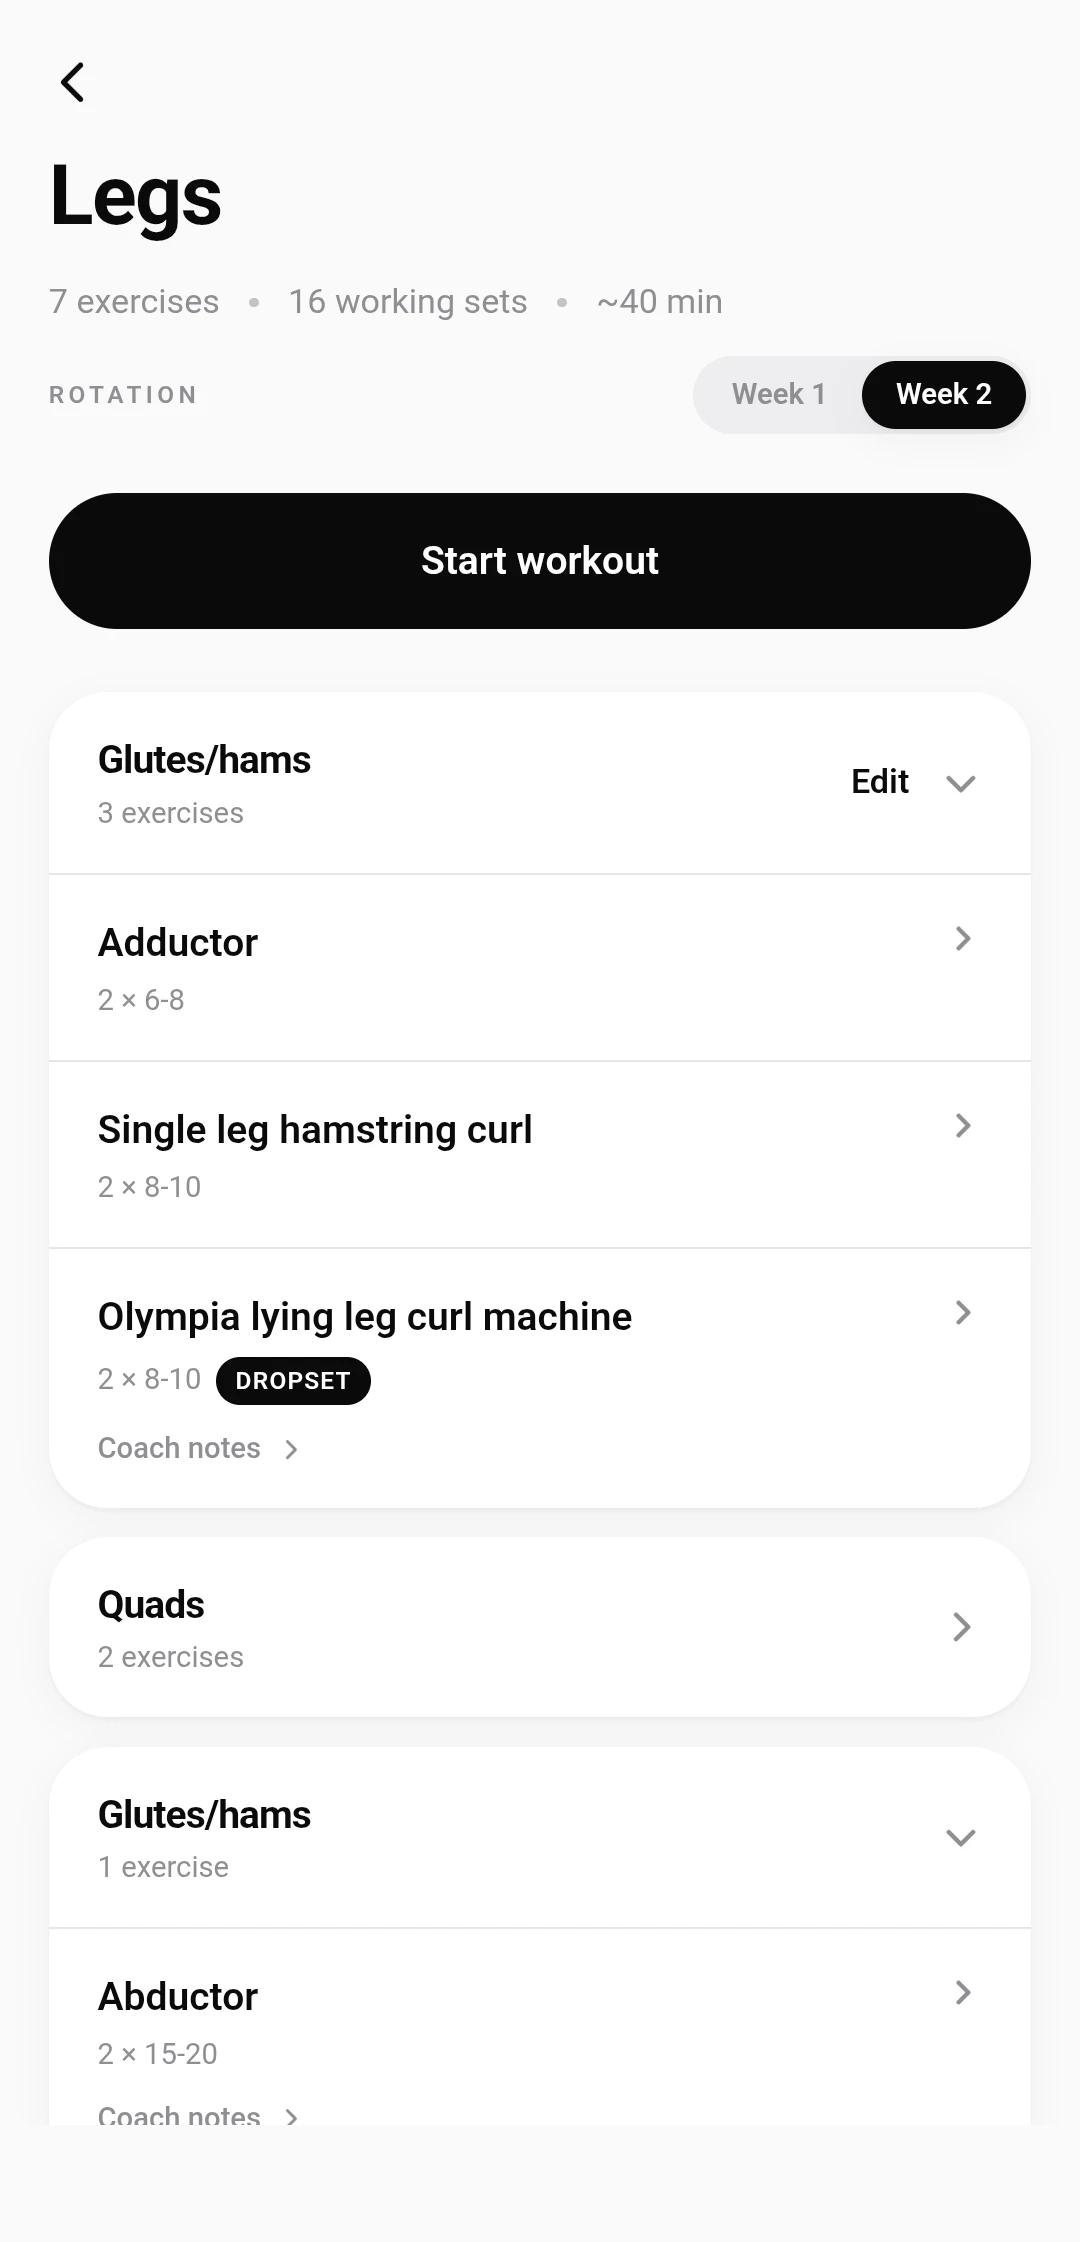
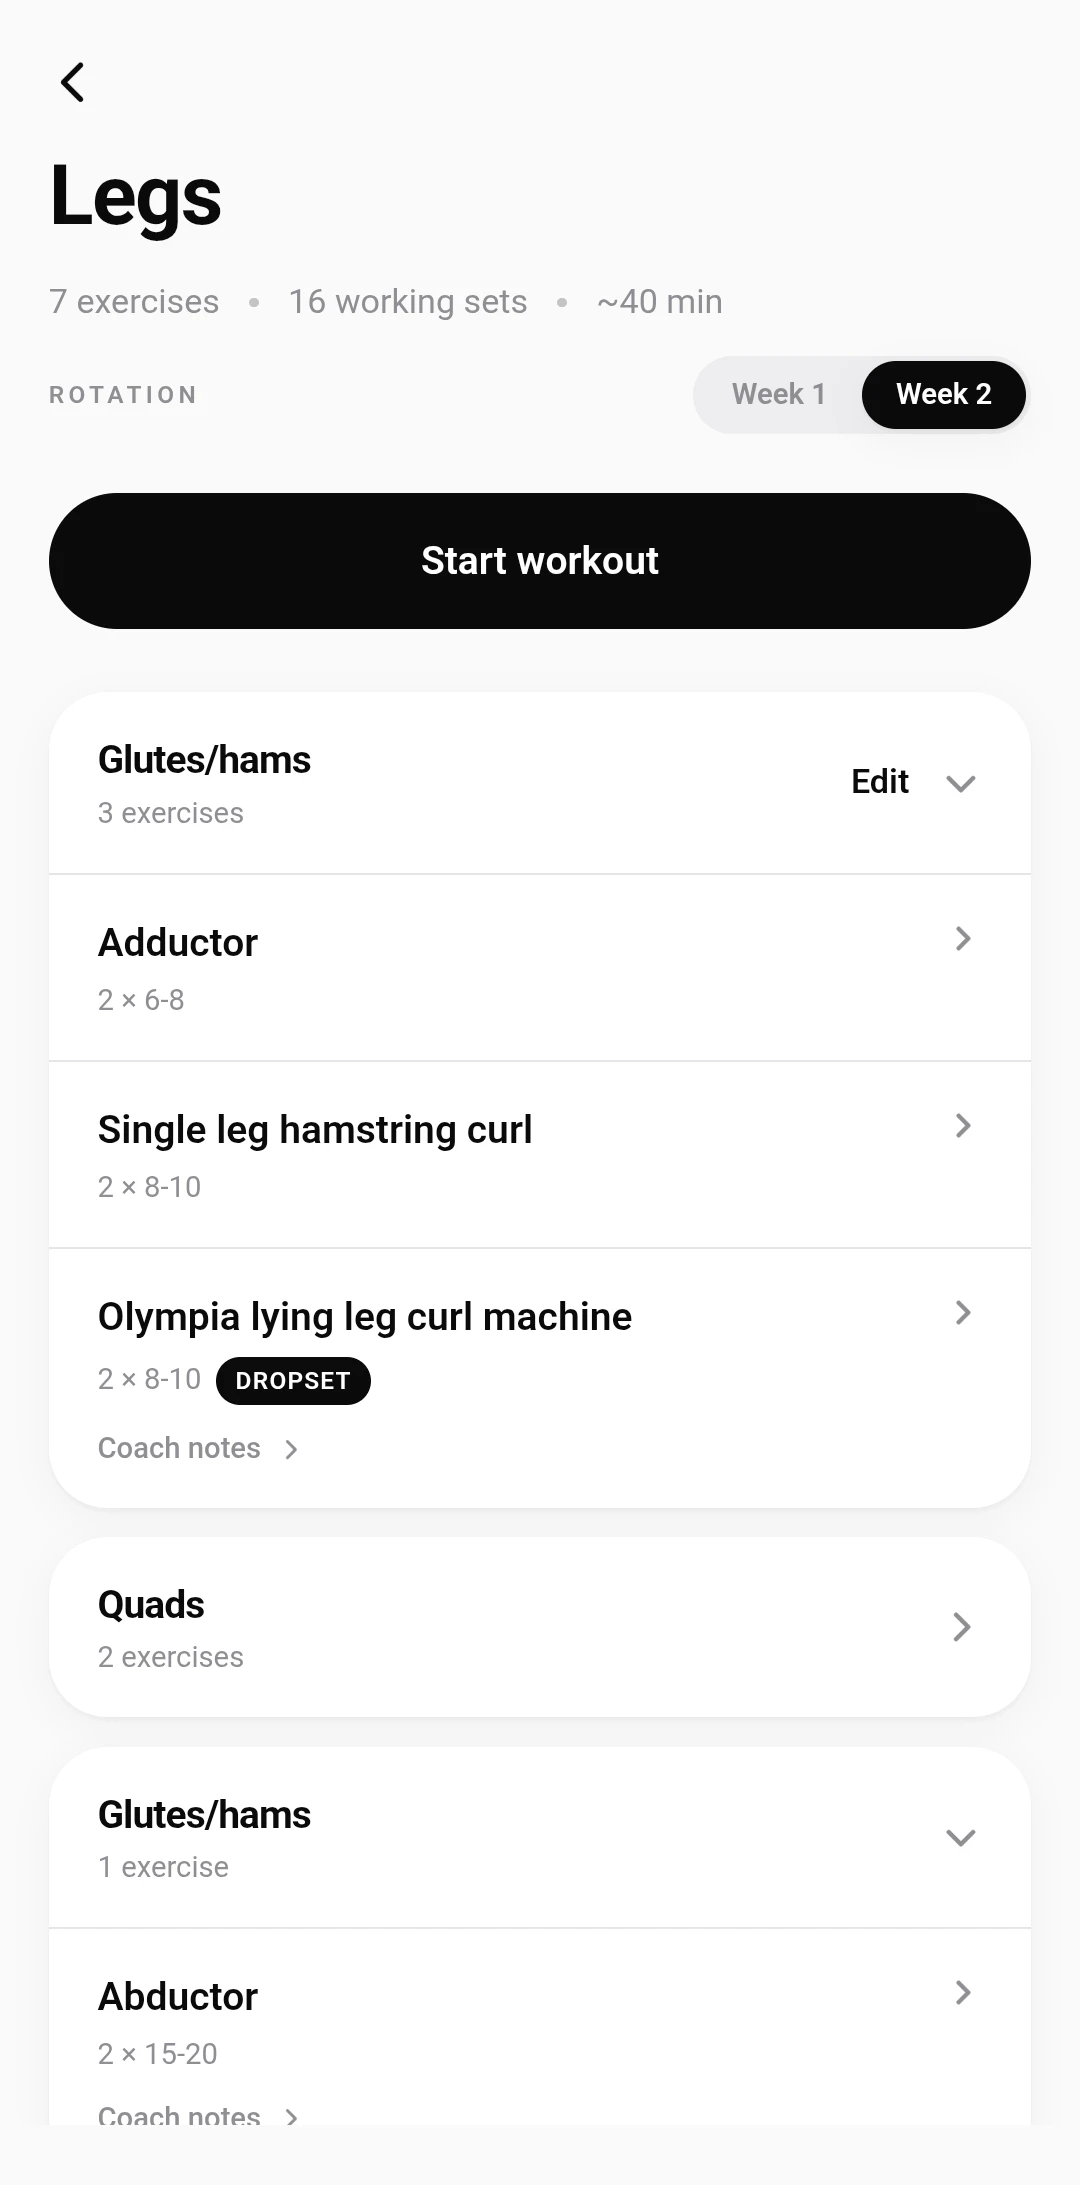
Run the hero through the whole app, and balance the screen in its frame
The hero now follows the app the way you use it: home, the progress tab
and its charts, into a day, the calculator building a load plate by
plate, the set going in, the rest timer, then back to home as the loop
wraps. Frames carry their own dwell through data-ms, so the plates pile
on in a second each while the screens worth reading hold for three.

The frame fit is a compromise, and worth stating. The Android captures
are 1080x2125 of app once both system bars are gone; the phone frame is
iPhone-shaped at 1080x2337. That 212px has to come from somewhere, and
the two ends of the trade are both visible: pad it all and the screen
floats with a gap, crop it all off the sides and the app's own margins
disappear — on some screens content sits 0-26px from the edge, so a full
crop cuts into titles. 60px of padding puts the split at roughly a third
of a phone pixel of side crop for an 11px strip under the tab bar, which
leaves the margins intact and reads as the app's own bottom padding
rather than a gap.

The four iPhone captures re-encode as WebP unchanged: 879KB of PNG
becomes 312KB, and the hero's initial shot payload drops from 303KB to
96KB. Nothing references a PNG any more, so they are gone.

Claude-Session: https://claude.ai/code/session_016dQZsHJBfV1LHgyEm3bUhk

diff --git a/index.html b/index.html
@@ -85,19 +85,24 @@
 
       <div class="hero__art" aria-hidden="true">
         <figure class="phone phone--back">
-          <img src="assets/shots/reps-days.png" alt="" width="1170" height="2532" loading="eager" decoding="async" />
+          <img src="assets/shots/reps-days.webp" alt="" width="1170" height="2532" loading="eager" decoding="async" />
           <span class="phone__sweep" aria-hidden="true"></span>
         </figure>
-        <!-- The front phone walks the app: home, the day you tapped into, a set
-             going in, the rest timer, then what it adds up to. Only the first
-             frame is fetched at priority — it is the LCP image; the rest are in
-             the viewport so they still load, just behind it. -->
+        <!-- The front phone walks the app the way you would use it: home, the
+             progress tab and its charts, into a day, the calculator building a
+             load plate by plate, the set going in, the rest timer — then back
+             to home as the loop wraps. Each frame carries its own dwell, so
+             the plates pile on quickly and the screens worth reading hold.
+             Only the first is fetched at priority: it is the LCP image. -->
         <figure class="phone phone--front phone--stack">
-          <img class="is-on" src="assets/shots/reps-home.webp" alt="" width="1080" height="2242" loading="eager" decoding="async" fetchpriority="high" />
-          <img src="assets/shots/reps-workout.webp" alt="" width="1080" height="2242" loading="lazy" decoding="async" fetchpriority="low" />
-          <img src="assets/shots/reps-log.webp" alt="" width="1080" height="2242" loading="lazy" decoding="async" fetchpriority="low" />
-          <img src="assets/shots/reps-rest.webp" alt="" width="1080" height="2242" loading="lazy" decoding="async" fetchpriority="low" />
-          <img src="assets/shots/reps-progress.webp" alt="" width="1080" height="2242" loading="lazy" decoding="async" fetchpriority="low" />
+          <img class="is-on" data-ms="2800" src="assets/shots/reps-home.webp" alt="" width="1080" height="2185" loading="eager" decoding="async" fetchpriority="high" />
+          <img data-ms="3000" src="assets/shots/reps-progress.webp" alt="" width="1080" height="2185" loading="lazy" decoding="async" fetchpriority="low" />
+          <img data-ms="2200" src="assets/shots/reps-workout.webp" alt="" width="1080" height="2185" loading="lazy" decoding="async" fetchpriority="low" />
+          <img data-ms="1000" src="assets/shots/reps-calc-a.webp" alt="" width="1170" height="2532" loading="lazy" decoding="async" fetchpriority="low" />
+          <img data-ms="1000" src="assets/shots/reps-calc-b.webp" alt="" width="1170" height="2532" loading="lazy" decoding="async" fetchpriority="low" />
+          <img data-ms="1900" src="assets/shots/reps-calc-c.webp" alt="" width="1170" height="2532" loading="lazy" decoding="async" fetchpriority="low" />
+          <img data-ms="2400" src="assets/shots/reps-log.webp" alt="" width="1080" height="2185" loading="lazy" decoding="async" fetchpriority="low" />
+          <img data-ms="2400" src="assets/shots/reps-rest.webp" alt="" width="1080" height="2185" loading="lazy" decoding="async" fetchpriority="low" />
           <span class="phone__sweep" aria-hidden="true"></span>
         </figure>
       </div>
@@ -163,7 +168,7 @@
     <div class="shell feature__inner">
       <figure class="panel" data-anim="days">
         <div class="phone phone--static">
-          <img src="assets/shots/reps-days.png" alt="The Reps home screen listing three training days — Push marked ‘Up next’, Pull, and Legs marked complete — each with its body parts and exercise count." width="1170" height="2532" loading="lazy" decoding="async" />
+          <img src="assets/shots/reps-days.webp" alt="The Reps home screen listing three training days — Push marked ‘Up next’, Pull, and Legs marked complete — each with its body parts and exercise count." width="1170" height="2532" loading="lazy" decoding="async" />
           <span class="phone__sweep" aria-hidden="true"></span>
         </div>
       </figure>
@@ -189,9 +194,9 @@
     <div class="shell feature__inner">
       <figure class="panel" data-anim="calc">
         <div class="phone phone--static phone--stack">
-          <img class="is-on" src="assets/shots/reps-calc-a.png" alt="The Reps barbell calculator with a light load: 15 kg a side, 55 kg with the bar." width="1170" height="2532" loading="lazy" decoding="async" />
-          <img src="assets/shots/reps-calc-b.png" alt="" aria-hidden="true" width="1170" height="2532" loading="lazy" decoding="async" />
-          <img src="assets/shots/reps-calc-c.png" alt="" aria-hidden="true" width="1170" height="2532" loading="lazy" decoding="async" />
+          <img class="is-on" src="assets/shots/reps-calc-a.webp" alt="The Reps barbell calculator with a light load: 15 kg a side, 55 kg with the bar." width="1170" height="2532" loading="lazy" decoding="async" />
+          <img src="assets/shots/reps-calc-b.webp" alt="" aria-hidden="true" width="1170" height="2532" loading="lazy" decoding="async" />
+          <img src="assets/shots/reps-calc-c.webp" alt="" aria-hidden="true" width="1170" height="2532" loading="lazy" decoding="async" />
           <span class="phone__sweep" aria-hidden="true"></span>
         </div>
       </figure>

diff --git a/main.js b/main.js
@@ -109,14 +109,24 @@
     var shots = scope.querySelectorAll('.phone--stack img');
     if (shots.length < 2) return;
 
+    /* A frame can ask for its own dwell with data-ms — the hero's plates pile
+       on in a second each, while the screens worth reading hold for three. */
+    function dwell(n) {
+      return parseInt(shots[n].getAttribute('data-ms'), 10) || ms;
+    }
+
     var i = 0;
-    window.setInterval(function () {
-      if (document.hidden) return;
-      shots[i].classList.remove('is-on');
-      i = (i + 1) % shots.length;
-      shots[i].classList.add('is-on');
-      if (onStep) onStep(i);
-    }, ms);
+    (function next() {
+      window.setTimeout(function () {
+        if (!document.hidden) {
+          shots[i].classList.remove('is-on');
+          i = (i + 1) % shots.length;
+          shots[i].classList.add('is-on');
+          if (onStep) onStep(i);
+        }
+        next();
+      }, dwell(i));
+    })();
   }
 
   function cycleCalc(fig) {
